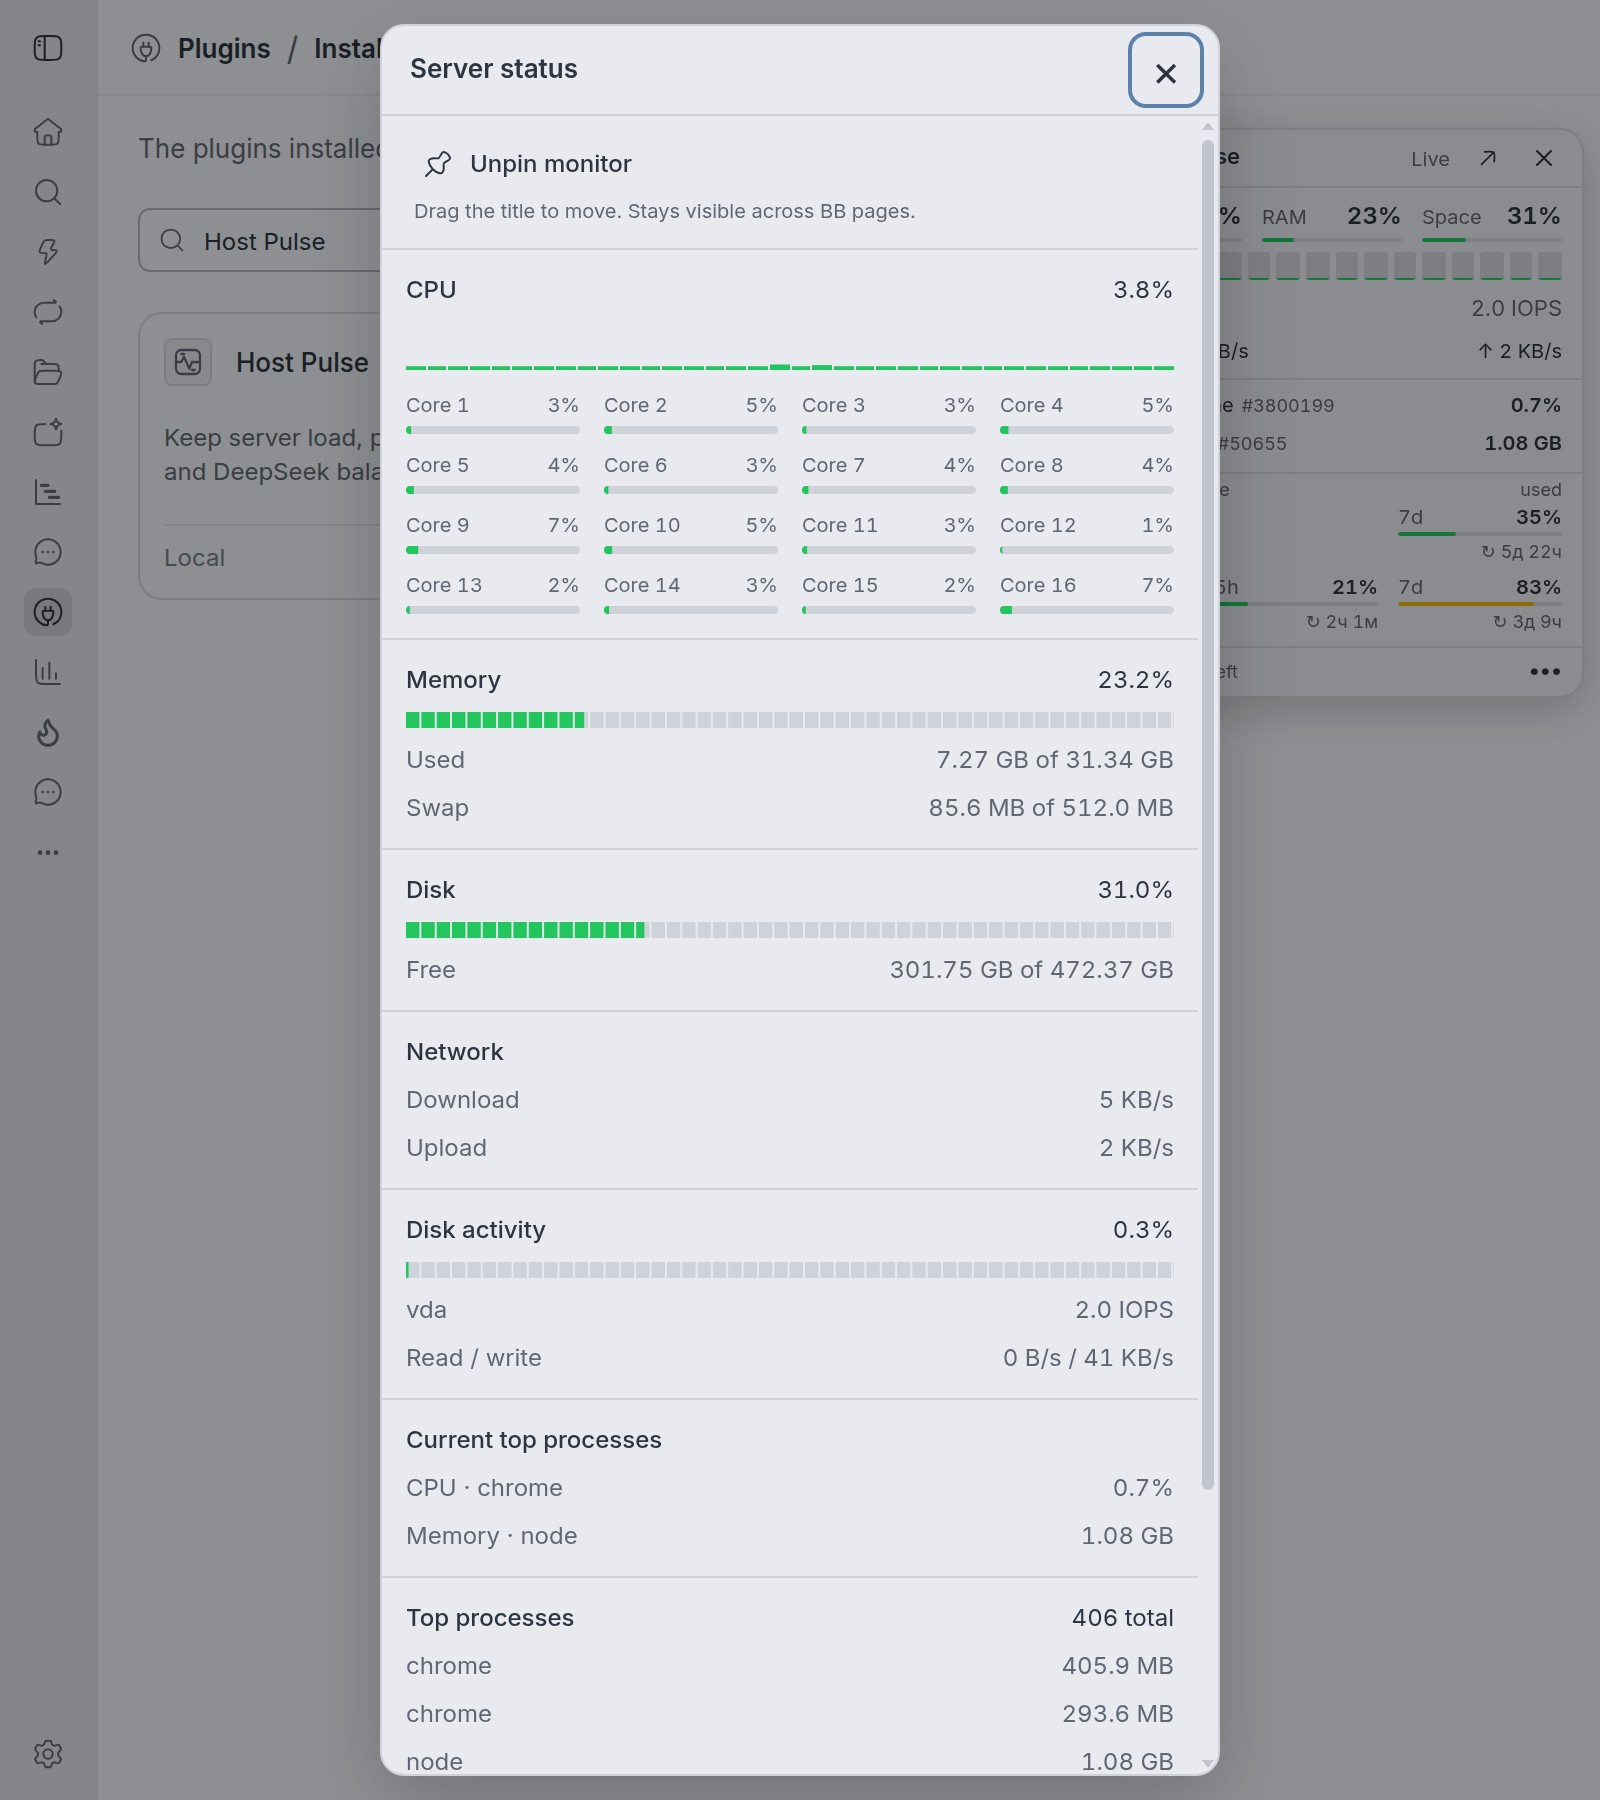
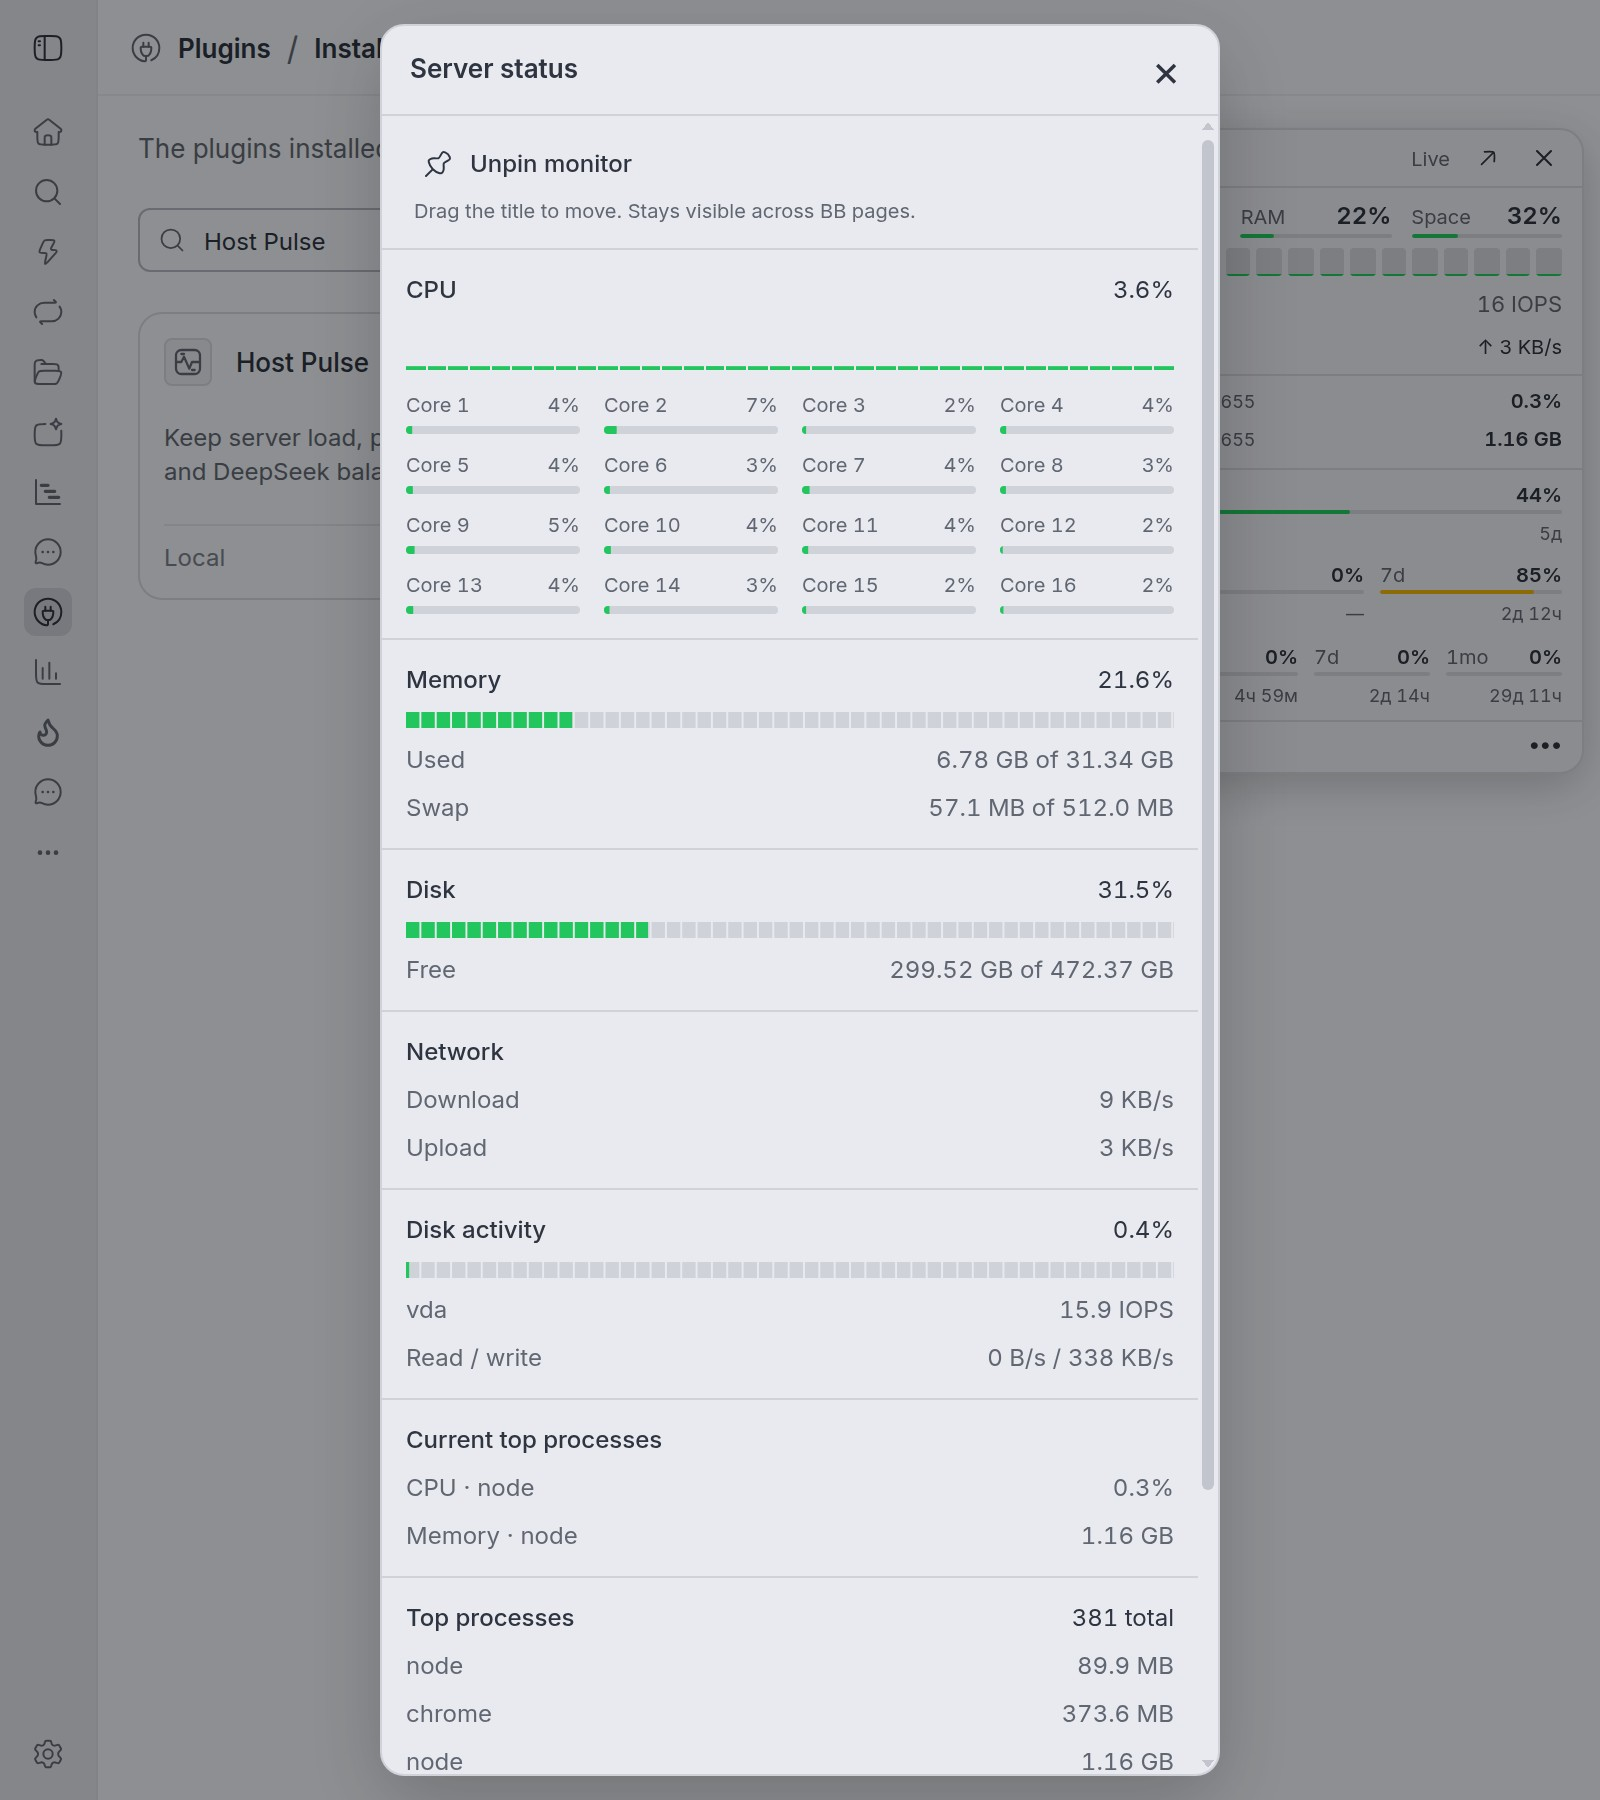
Refresh Host Pulse overview and screenshots for 0.1.6

diff --git a/PLUGIN_OVERVIEW.md b/PLUGIN_OVERVIEW.md
@@ -2,7 +2,7 @@
 
 Click **Host Pulse** in the sidebar footer to open the floating monitor in one click; click it again to hide the card. The compact card stays visible across BB pages, threads and projects. Drag its title with a mouse or finger, or use the arrow keys. Its position and visibility are saved in your browser.
 
-See overall CPU and memory use, one bar per logical core, root-disk space and activity, IOPS, download/upload speed, and the current CPU and memory process leaders. Open the details panel for charts, swap, load averages and uptime.
+See overall CPU and memory use, one bar per logical core, root-disk space and activity, IOPS, download/upload speed, and the current CPU and memory process leaders. Open the details panel for CPU history, swap, disk and network activity, and uptime.
 
 Provider quotas have separate usage meters and reset countdowns for every reported window. The optional DeepSeek row shows API money remaining in the account's currency.
 
